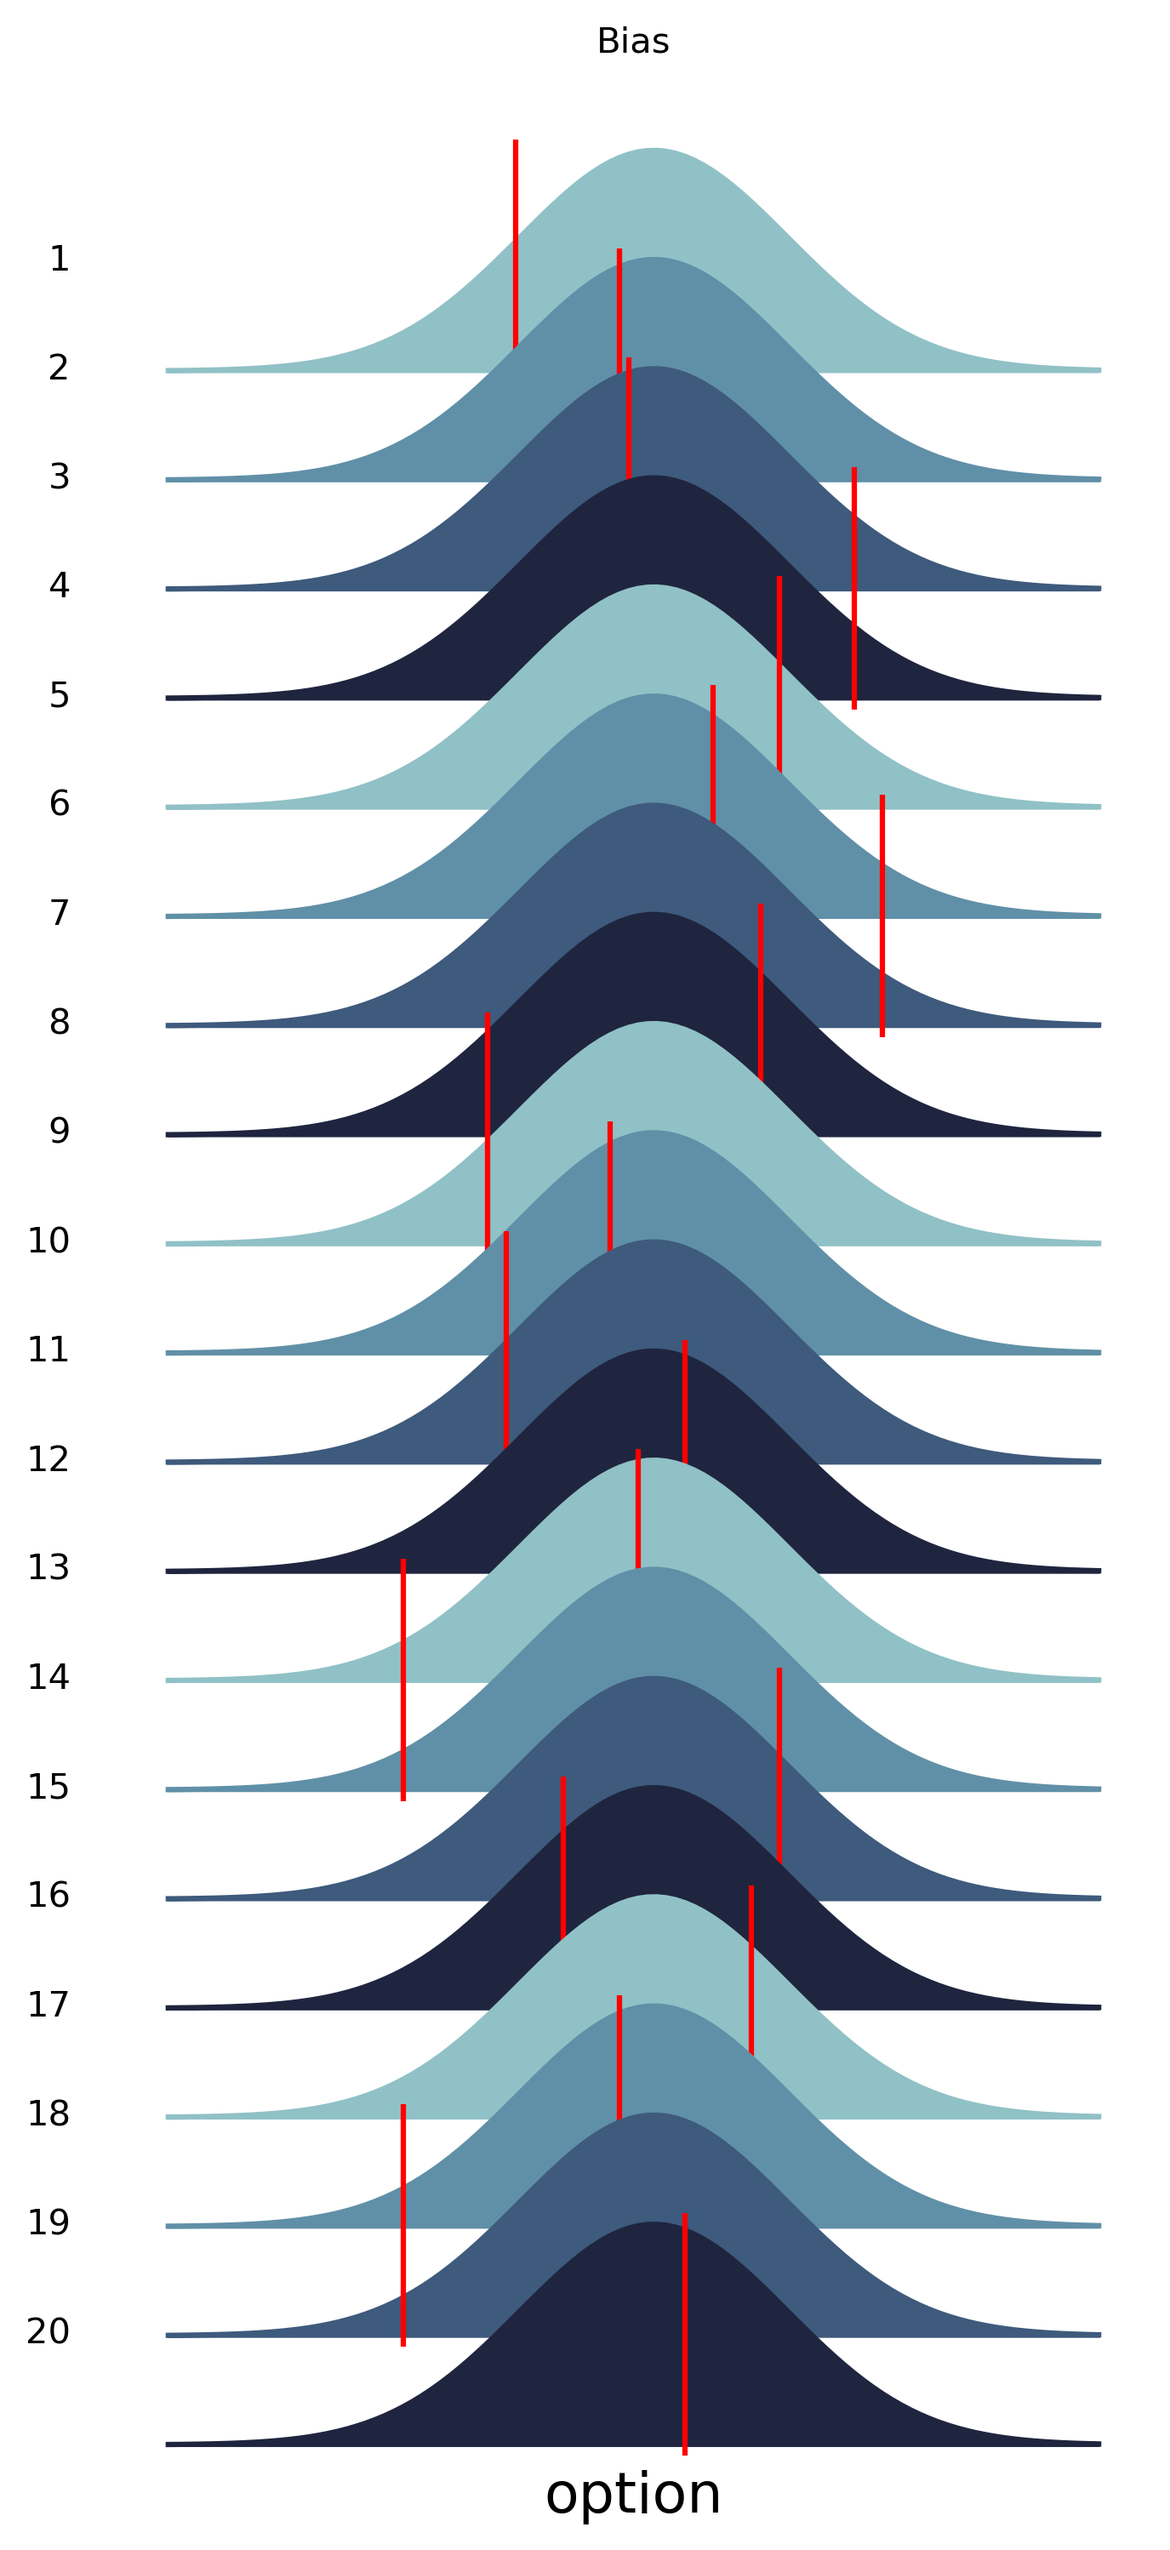
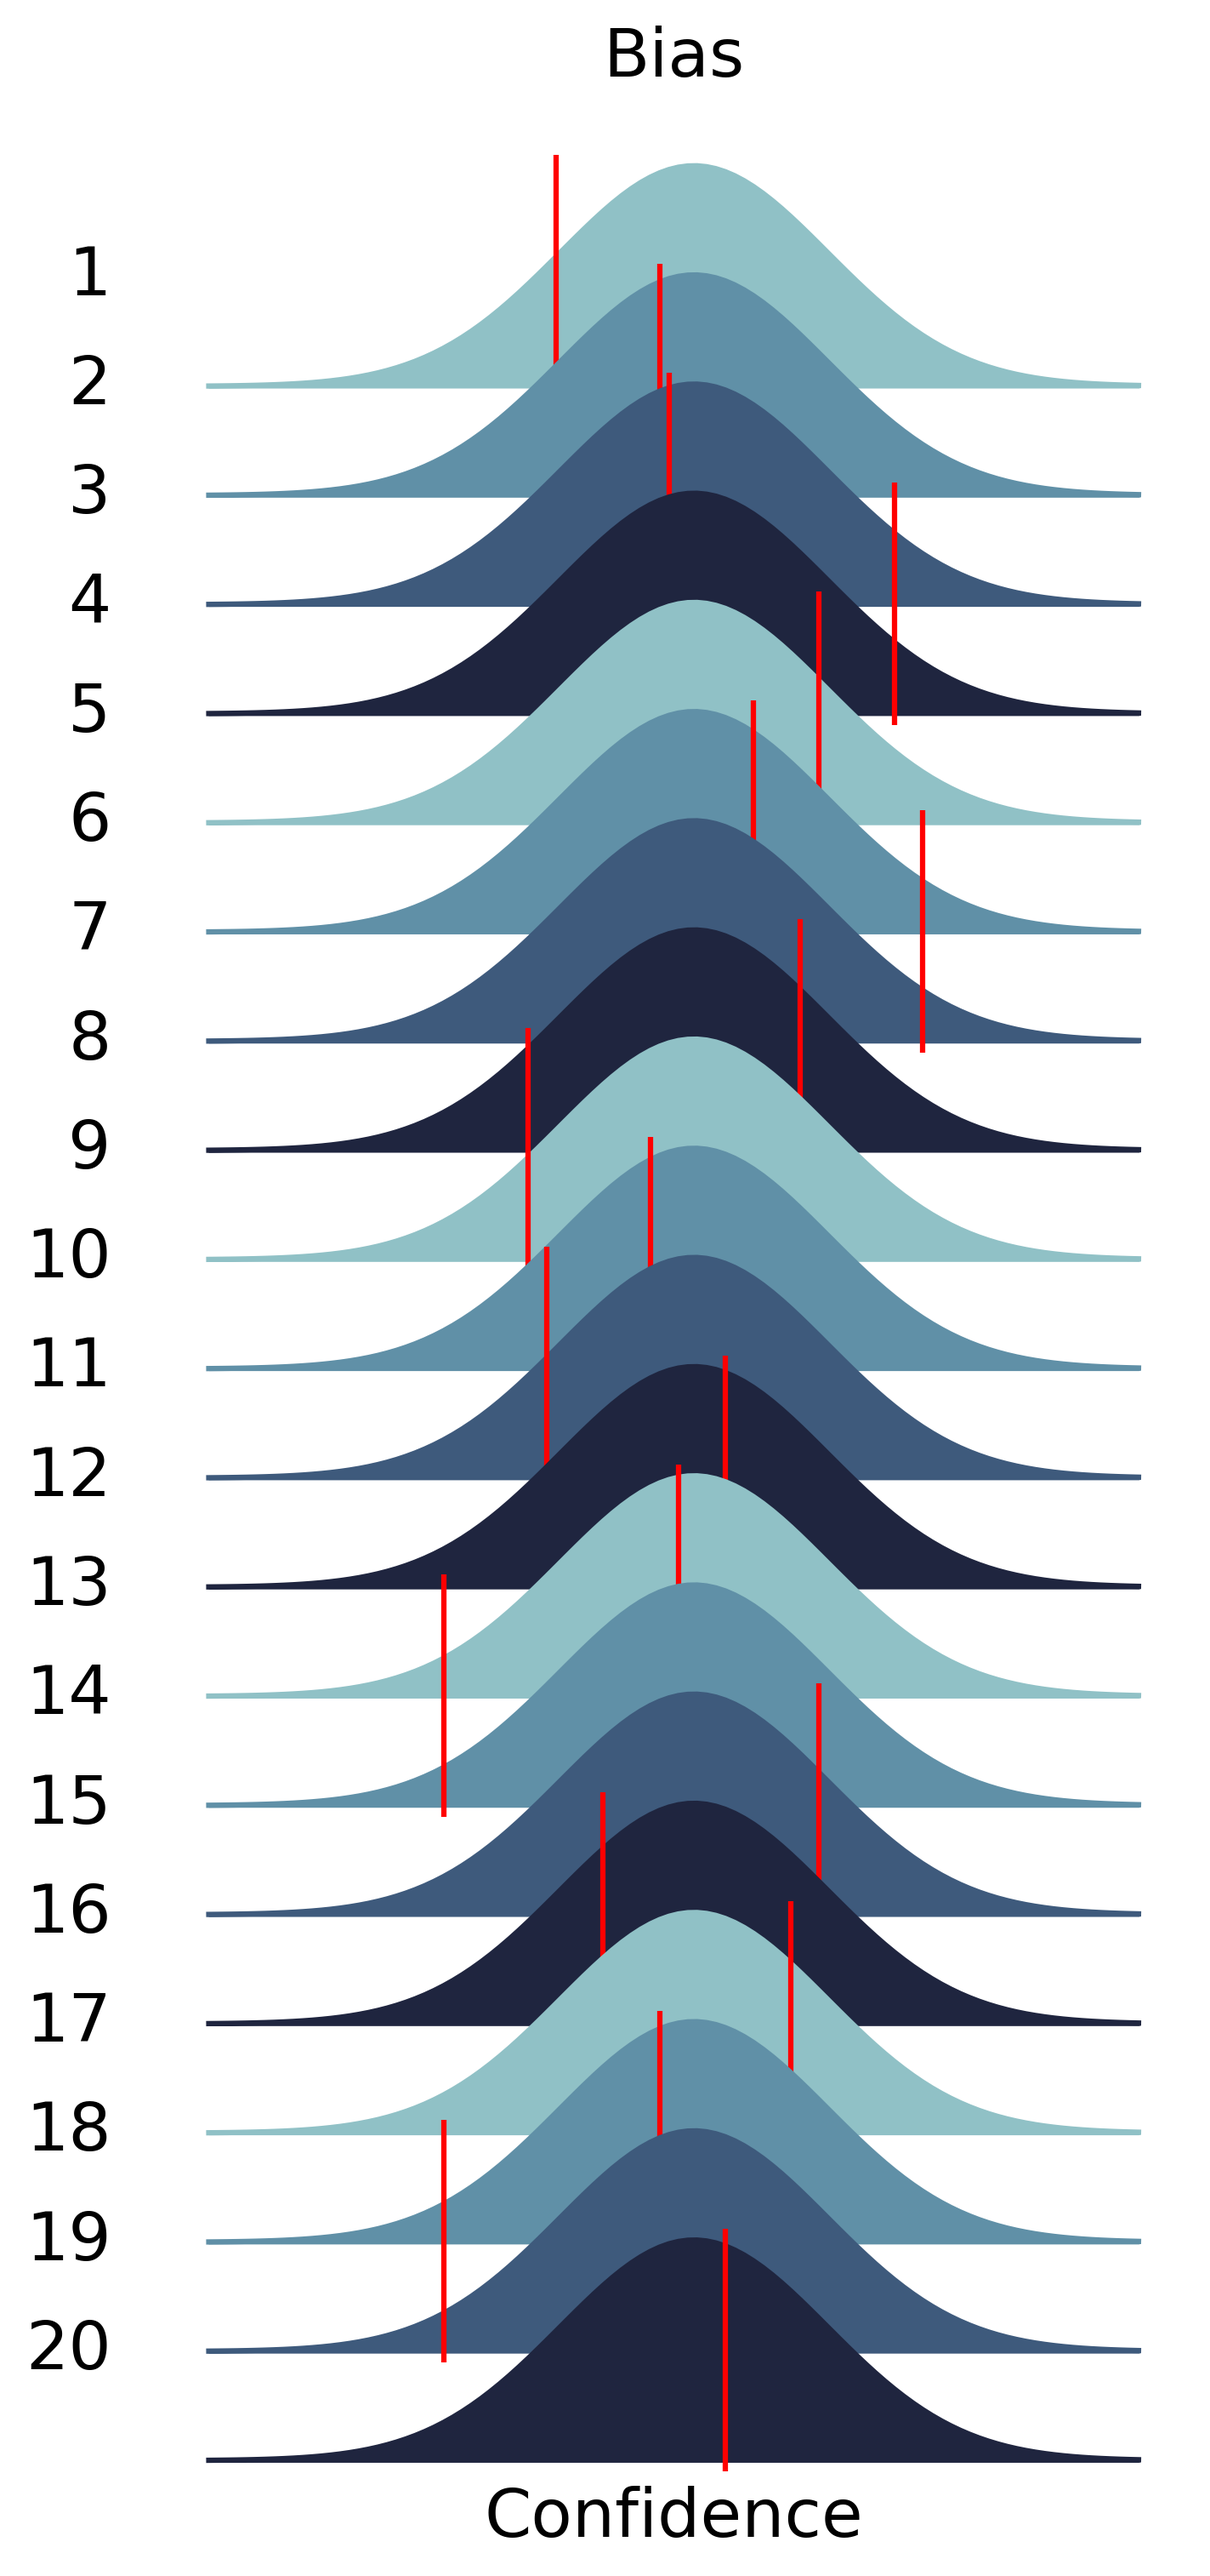
Trialwise analysis and bugs fixed

diff --git a/comparative_models/scripts/trialwise_model_fit.py b/comparative_models/scripts/trialwise_model_fit.py
@@ -15,8 +15,10 @@ import seaborn as sns
 from matplotlib.image import imread
 from tqdm import tqdm
 import matplotlib.lines as mlines
+import matplotlib.patches as mpatches
 from src.utility_functions import (create_truncated_normal,
-                                   add_session_column)
+                                   add_session_column,
+                                   HandlerNormalDist)
 from src.models import (fit_model,
                         random_model_w_bias,
                         random_model_w_bias_trial,
@@ -150,8 +152,10 @@ for pid_nr, participant in enumerate(tqdm(df.pid.unique(),
         # Set bounds
         alpha_bound = (0.001, 1)  # Alpha
         sigma_bound = (1, 100)    # Standard deviation
+        bias_bound = (0, 100)     # Mean at first trial
         bounds = [(alpha_bound[0], alpha_bound[1]),
-                  (sigma_bound[0], sigma_bound[1])]
+                  (sigma_bound[0], sigma_bound[1]),
+                  (bias_bound[0], bias_bound[1])]
 
 
         # Get results
@@ -166,13 +170,16 @@ for pid_nr, participant in enumerate(tqdm(df.pid.unique(),
 
         best_alpha = results_rw_symm[0]
         best_std = results_rw_symm[1]
-        nll = results_rw_symm[2]
-        aic = results_rw_symm[3]
-        bic = results_rw_symm[4]
-        pseudo_r2 = results_rw_symm[5]
+        best_bias = results_rw_symm[2]
+        nll = results_rw_symm[3]
+        aic = results_rw_symm[4]
+        bic = results_rw_symm[5]
+        pseudo_r2 = results_rw_symm[6]
 
 
-        trial_results = rw_symmetric_LR_trial((best_alpha, best_std),
+        trial_results = rw_symmetric_LR_trial((best_alpha,
+                                               best_std,
+                                               best_bias),
                                               confidence,
                                               feedback,
                                               n_trials)
@@ -289,18 +296,21 @@ for pid_nr, participant in enumerate(tqdm(df.pid.unique(),
                 trial_number = row_val+1
                 ax.text(-0.05, 0.5, trial_number,
                         transform=ax.transAxes,
-                        ha="right", va="center")
+                        ha="right", va="center",
+                        fontsize=19)
                 model_name_ = f'{model_name}'
                 if row_val == 0:
                     ax.text(0.5, 1.4, model_name_,
                             transform=ax.transAxes,
-                            ha="center", va="center")
+                            ha="center", va="center",
+                            fontsize=19)
 
             # Set fontsize for x-tick labels
             for ax in g.axes.flat:
                 for label in ax.get_xticklabels():
-                    label.set_size(16)
-                ax.set_xlabel(ax.get_xlabel(), fontsize=16)
+                    label.set_size(19)
+                ax.set_xlabel('Confidence', fontsize=19)
+
 
 
             # Save and Show the plot
@@ -344,17 +354,19 @@ for pid_nr, participant in enumerate(tqdm(df.pid.unique(),
                                          label='Participant Choice',
                                          linestyle='None')
 
-                blue_triangle = mlines.Line2D([], [], color='blue',
-                                                marker='^', linestyle='None',
-                                          markersize=10,
-                                          label='Purple triangles')
+                # Distribution symbol patch
+                dummy_line = mpatches.Patch(
+                    color='steelblue',
+                    label='Model Prediction Probability')
 
-                ax.legend(handles=[red_line, blue_triangle],
-                          labels=['Participant Choice',
-                                  'Model Prediction\nProbability'],
+                ax.legend([red_line, dummy_line],
+                          ['Participant Choice',
+                           'Model Prediction\nProbability'],
+                          handler_map={mpatches.Patch: HandlerNormalDist()},
                           bbox_to_anchor=(1.8, 1),
                           facecolor='white',
                           framealpha=1)
+
 
         # NLL plot
         ax = fig.add_subplot(gs[4, :])     # Span fifth row, all columns
@@ -377,8 +389,16 @@ for pid_nr, participant in enumerate(tqdm(df.pid.unique(),
         ax.set_xticks(x, x)
         ax.set_xlabel('Trial')
         ax.set_ylabel('NLL')
+
+        # Set condition as title
         condition = df_s.condition.unique()[1]
-        plt.suptitle(f'{condition}')
+        if condition == 'neut':
+            condition_string = "Neutral Feedback"
+        if condition == 'pos':
+            condition_string = "Positive Feedback"
+        if condition == 'neg':
+            condition_string = "Negative Feedback"
+        plt.suptitle(condition_string)
 
         ax.legend(bbox_to_anchor=(1, 1), facecolor='white', framealpha=1)
 
@@ -400,3 +420,5 @@ for pid_nr, participant in enumerate(tqdm(df.pid.unique(),
         # Show plot
         plt.show()
 
+        break
+    break

diff --git a/comparative_models/src/utility_functions.py b/comparative_models/src/utility_functions.py
@@ -8,6 +8,9 @@ Created on Wed Dec  6 01:32:41 2023
 import numpy as np
 from scipy.integrate import quad
 from scipy.stats import truncnorm
+import matplotlib.patches as mpatches
+from matplotlib.legend_handler import HandlerPatch
+from matplotlib.path import Path
 
 # Utility functions
 
@@ -219,3 +222,27 @@ def create_probability_distribution(options=[1, 2, 3],
 
     return probabilities
 
+class HandlerNormalDist(HandlerPatch):
+    def create_artists(self, legend, orig_handle, xdescent, ydescent, width, height, fontsize, trans):
+        # Scaling factors for the size of the curve
+        scale_x = width / 4
+        scale_y = height * 1
+
+        # Horizontal shift to move the curve to the right
+        shift_x = width / 1.5 # Adjust this value to shift the curve
+
+        # Create a path for a normal distribution shape
+        x = np.linspace(-2, 2, 100)
+        y = np.exp(-x**2)
+        vertices = [(x[i] * scale_x + shift_x, y[i] * scale_y) for i in range(len(x))]
+        vertices = [(-2 * scale_x + shift_x, 0)] + vertices + [(2 * scale_x + shift_x, 0)]
+        codes = [Path.MOVETO] + [Path.LINETO] * len(x) + [Path.LINETO]
+        path = Path(vertices, codes)
+
+        # Create a patch from this path
+        patch = mpatches.PathPatch(path, #facecolor='none',
+                                   edgecolor=orig_handle.get_edgecolor(),
+                                   lw=0,
+                                   )
+        patch.set_transform(trans)
+        return [patch]

diff --git a/comparative_models/scripts/fit_comparitive_models.py b/comparative_models/scripts/fit_comparitive_models.py
@@ -175,12 +175,14 @@ for participant in tqdm(df.pid.unique(), total=len(df.pid.unique())):
         bic_array_win_stay[session_idx] = results_win_stay[4]
 
         # Rescorla wagner model
-        # print('RW model...')
+
         # Set bounds
-        alpha_bound = (0.0001, 1)  # Alpha
+        alpha_bound = (0.001, 1)  # Alpha
         sigma_bound = (1, 100)    # Standard deviation
+        bias_bound = (0, 100)     # Mean at first trial
         bounds = [(alpha_bound[0], alpha_bound[1]),
-                  (sigma_bound[0], sigma_bound[1])]
+                  (sigma_bound[0], sigma_bound[1]),
+                  (bias_bound[0], bias_bound[1])]
 
         # Get results
         results_rw_symm = fit_model(model=rw_symmetric_LR,
@@ -194,10 +196,11 @@ for participant in tqdm(df.pid.unique(), total=len(df.pid.unique())):
 
         best_alpha = results_rw_symm[0]
         best_std = results_rw_symm[1]
-        nll = results_rw_symm[2]
-        aic = results_rw_symm[3]
-        bic = results_rw_symm[4]
-        pseudo_r2 = results_rw_symm[5]
+        best_bias = results_rw_symm[2]
+        nll = results_rw_symm[3]
+        aic = results_rw_symm[4]
+        bic = results_rw_symm[5]
+        pseudo_r2 = results_rw_symm[6]
 
         alpha_array_rw_symm[session_idx] = best_alpha
         sigma_array_rw_symm[session_idx] = best_std

diff --git a/comparative_models/src/models.py b/comparative_models/src/models.py
@@ -37,7 +37,7 @@ def rw_symmetric_LR_trial(x, *args):
     ignores the baseline trial in its final output.
     """
 
-    alpha, sigma = x
+    alpha, sigma, bias = x
     confidence, feedback, n_trials = args
 
     sigma_vec = np.full(n_trials, sigma)  # vector for standard deviation
@@ -48,8 +48,8 @@ def rw_symmetric_LR_trial(x, *args):
             continue
 
         if t == 1:
-            # The probability stays centered around the previous confidence
-            model_pred[t] = confidence[t-1]
+            # The probability mean for the first trial (bias) is fit
+            model_pred[t] = bias
 
         if t > 1:
 
@@ -108,7 +108,7 @@ def rw_symmetric_LR(x, *args):
     baseline trial in its final output.
     """
 
-    alpha, sigma = x
+    alpha, sigma, bias = x
     confidence, feedback, n_trials = args
 
     sigma_vec = np.full(n_trials, sigma)  # vector for standard deviation
@@ -119,8 +119,8 @@ def rw_symmetric_LR(x, *args):
             continue
 
         if t == 1:
-            # The probability stays centered around the previous confidence
-            model_pred[t] = confidence[t-1]
+            # The probability mean for the first trial (bias) is fit
+            model_pred[t] = bias
 
         if t > 1:
 
